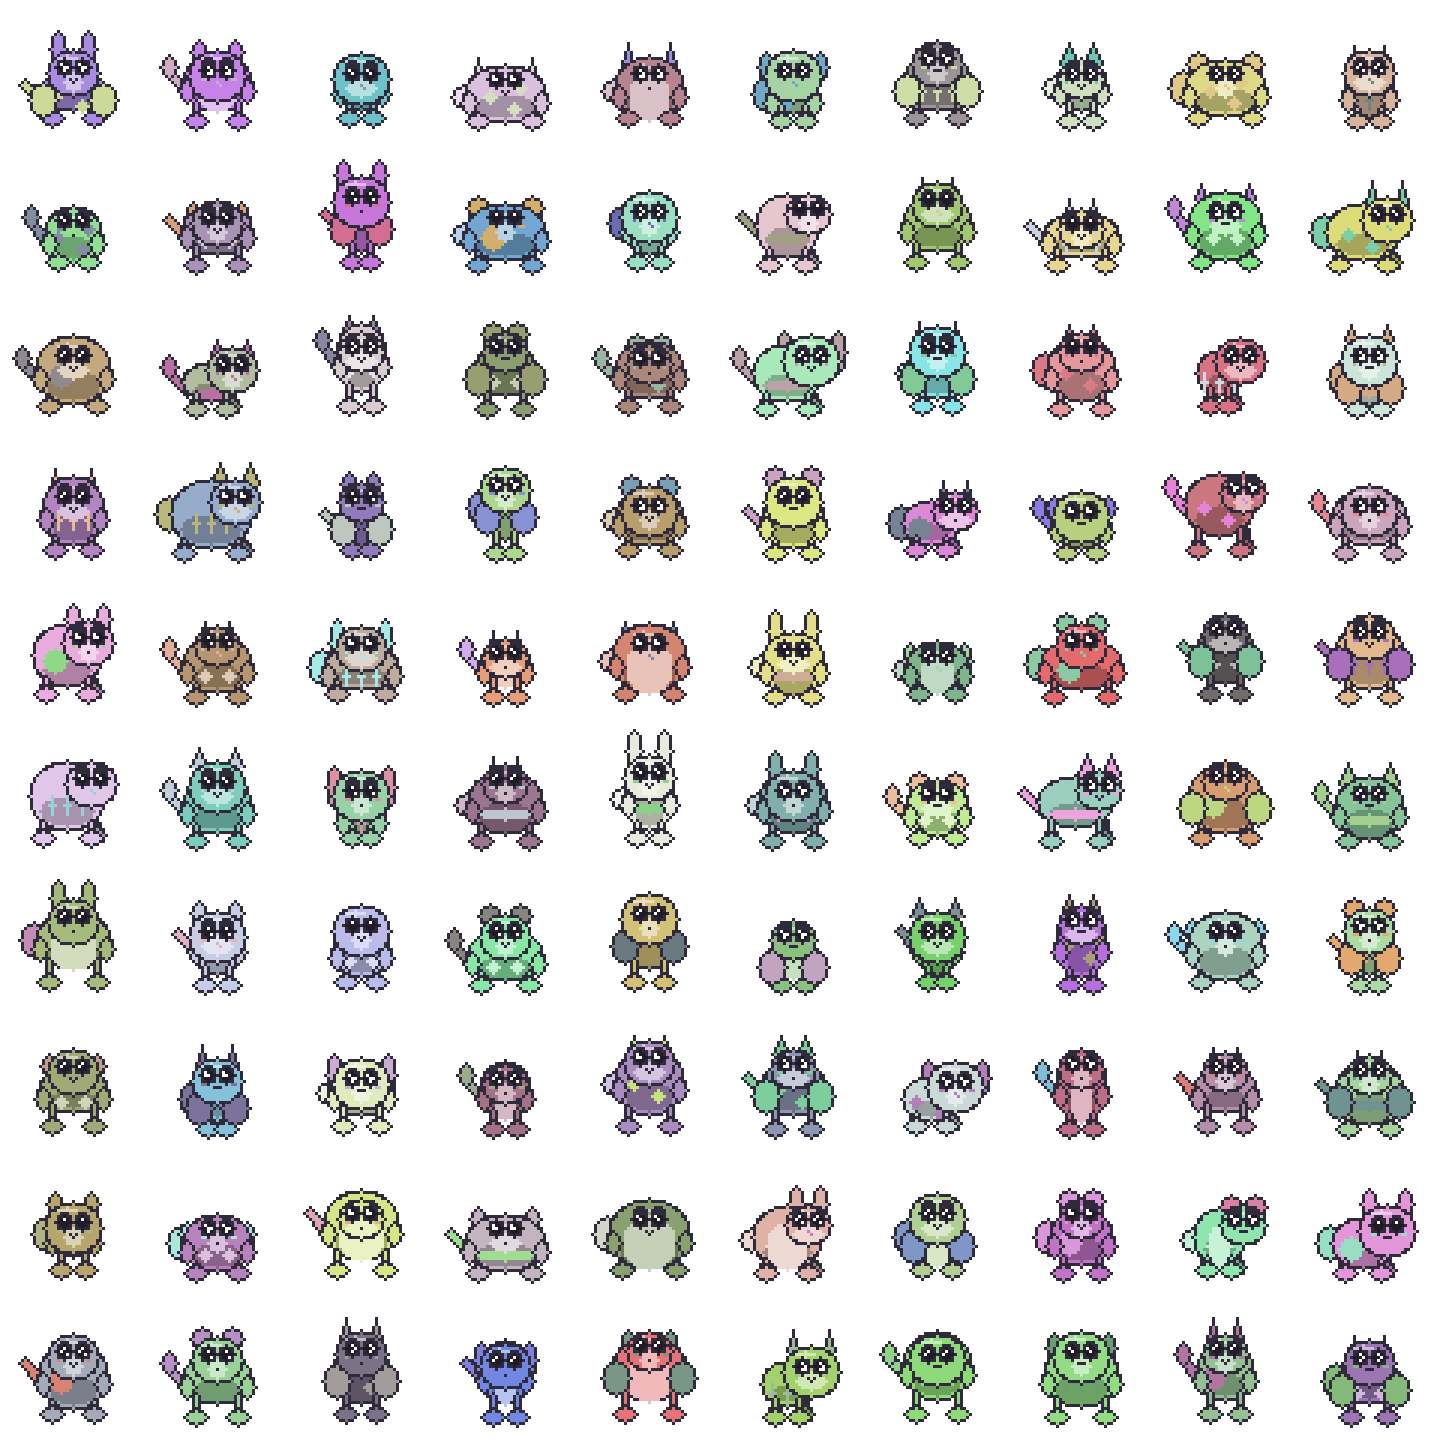
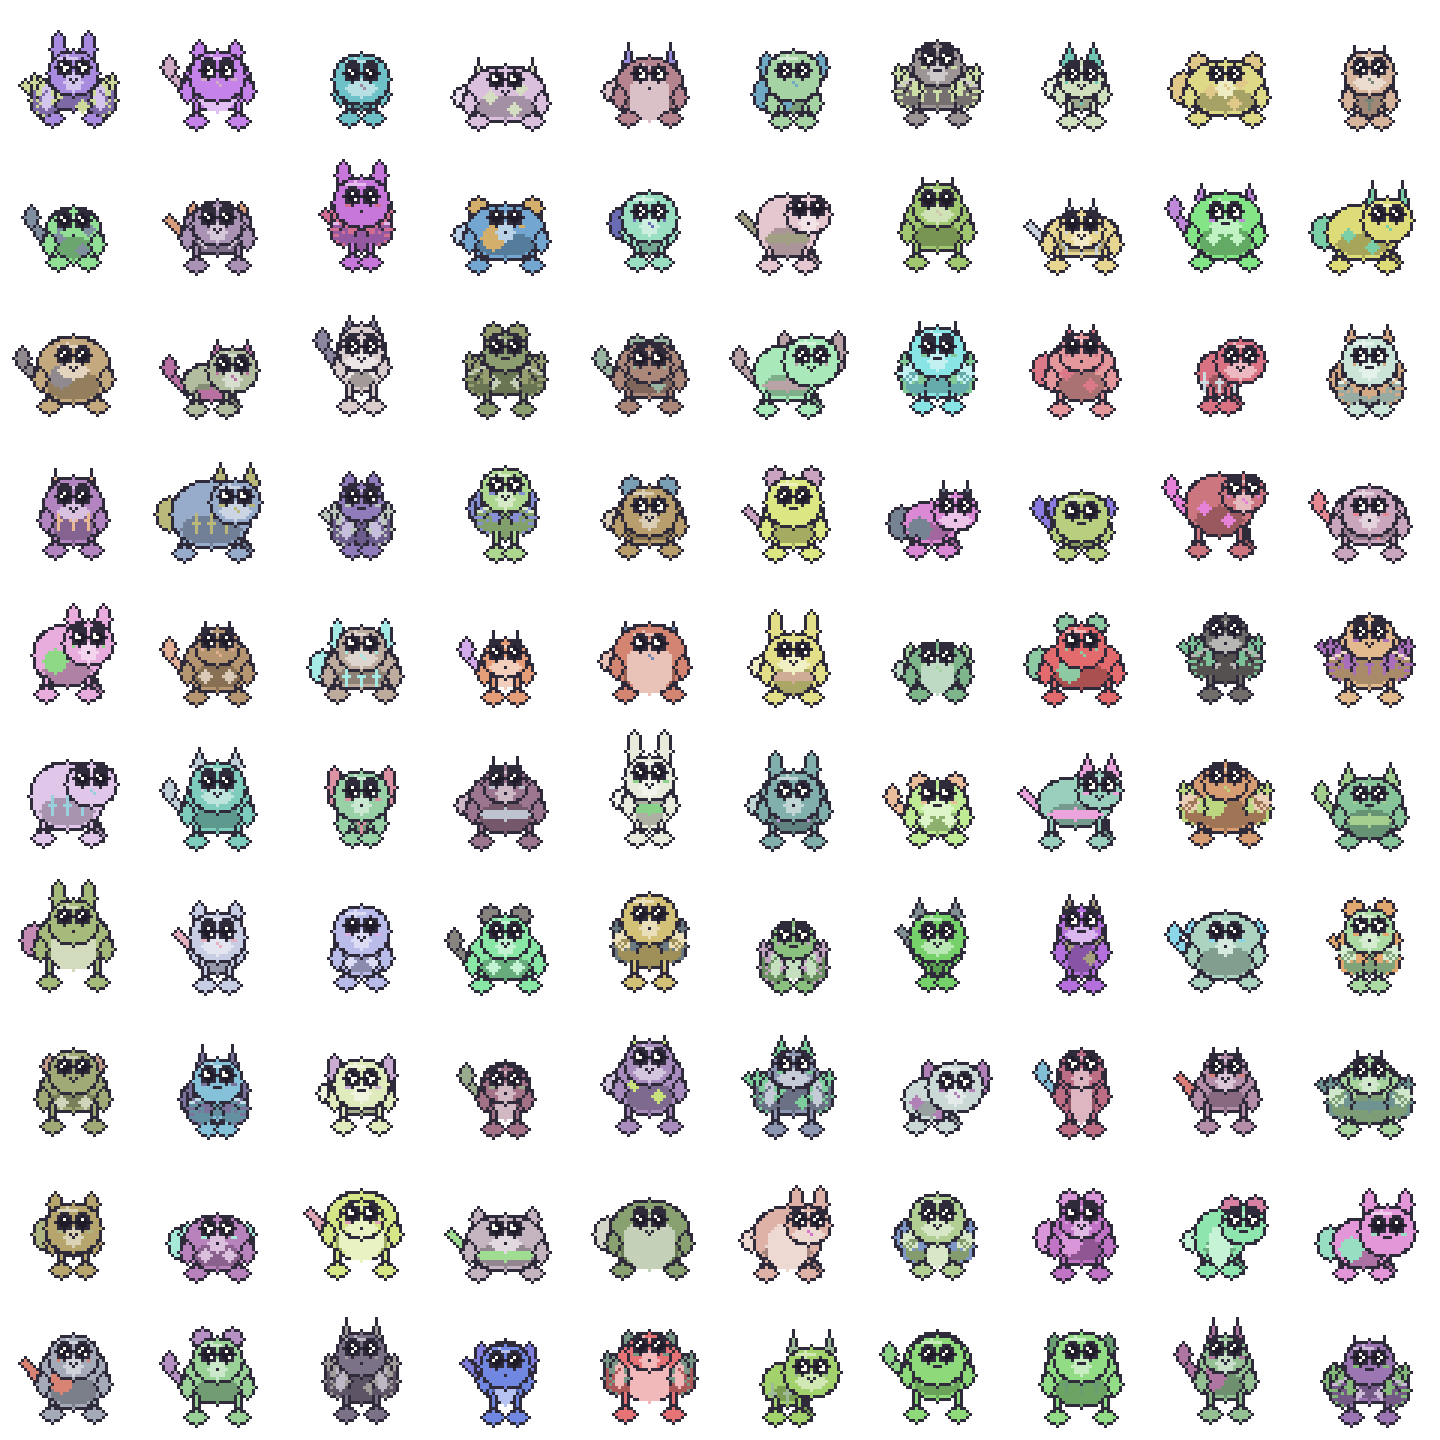
Release 0.55.6 with wings that read as wings
Winged creatures grew large accent nubs that were hard to tell from the arms
every other plan carries. Each membrane now keeps a lit leading edge and a
shaded underside, and carries a tip up and outward past the shoulder, so the
bright part sweeps the way a folded wing reads. One of three structures is
drawn over that: feathered quills sweeping to the tip, two ribs reaching a
drawn-down point, or a pale inner panel behind a darker outer rim.

Which wing a creature grows is a pure function of the accent, marking, and
tail bytes its recipe already holds, so wings vary between creatures, never
change for a given creature, and travel intact inside a version 2 seed code.
The recipe is still 16 bytes and existing creatures keep their appearance.

Every mark stays inside the membrane's own outline, leaving the silhouette,
its connection to the body, and the reserved face unchanged, and the structure
is baked into the existing body frames at atlas construction, so it costs no
quad, texture, or per-frame work.

diff --git a/crates/formiga-art/src/renderer/modular.rs b/crates/formiga-art/src/renderer/modular.rs
@@ -189,16 +189,13 @@ pub(super) fn draw(
         );
         oval(c, p, fx, floor - 1 - step.abs().min(2), 3, 2, p.coat);
         if !long {
-            let wing = d.body == BodyPlan::Winged;
-            oval(
-                c,
-                p,
-                x + side * (rx - 1),
-                y + 3 - pose.appendage_lift.clamp(-2, 3),
-                if wing { 4 } else { 2 },
-                if wing { 5 } else { 3 },
-                if wing { p.accent } else { p.coat },
-            );
+            let ax = x + side * (rx - 1);
+            let ay = y + 3 - pose.appendage_lift.clamp(-2, 3);
+            if d.body == BodyPlan::Winged {
+                draw_wing(c, p, wing_style(d), ax, ay, side);
+            } else {
+                oval(c, p, ax, ay, 2, 3, p.coat);
+            }
         }
     }
     if !blob {
@@ -223,9 +220,112 @@ pub(super) fn draw(
     PixelPoint { x: hx, y: hy }
 }
 
+/// Which wing a creature grew. Derived from bytes already in the recipe, so wings vary between
+/// creatures, stay identical every time one is drawn, and travel intact inside a shared code
+/// without spending another recipe byte.
+fn wing_style(d: CreatureDesign) -> u8 {
+    ((u16::from(d.accent[0]) + u16::from(d.marking) * 5 + u16::from(d.tail) * 3) % 3) as u8
+}
+
+/// A wing rather than a large nub. The membrane keeps its existing silhouette, so the body
+/// connection and the reserved face are untouched; the shape is carried by value instead. The
+/// underside is shaded and the leading edge lit, which sweeps the bright part up and outward the
+/// way a folded wing reads, and the style adds its own structure over that.
+fn draw_wing(c: &mut Canvas, p: Palette, style: u8, x: i32, y: i32, side: i32) {
+    oval(c, p, x, y, 4, 5, p.accent);
+    // A tip carried up past the shoulder, so a wing is never read as another arm.
+    oval(c, p, x + side, y - 4, 2, 3, p.accent);
+    oval(c, p, x + side * 3, y - 6, 1, 2, p.accent);
+    // Shade the trailing underside, nearest the body and lowest on the wing.
+    c.fill_ellipse(x - side, y + 3, 3, 2, p.shadow);
+    match style {
+        // Feathered: parallel quills sweeping out to the tip, over a lit leading edge.
+        0 => {
+            c.line(x - side * 2, y - 4, x + side * 3, y - 2, 1, p.highlight);
+            for offset in 0..3 {
+                let row = y - 2 + offset * 2;
+                c.line(x - side, row, x + side * 3, row + 1, 1, p.shadow);
+            }
+        }
+        // Membrane: two clean ribs running from the shoulder to a drawn-down tip.
+        1 => {
+            c.fill_ellipse(x + side, y - 2, 3, 3, p.highlight);
+            for dy in [0, 3] {
+                c.line(x - side * 2, y - 4, x + side * 3, y + dy, 1, p.shadow);
+            }
+            c.line(x + side * 3, y + 1, x + side * 3, y + 4, 1, p.accent);
+        }
+        // Panelled: a pale inner panel behind a darker outer rim, with a single vein.
+        _ => {
+            c.fill_ellipse(x - side, y - 1, 2, 4, p.highlight);
+            c.line(x + side * 3, y - 3, x + side * 3, y + 3, 1, p.shadow);
+            c.line(x - side, y - 3, x + side * 2, y + 1, 1, p.shadow);
+        }
+    }
+}
+
 #[cfg(test)]
 mod tests {
     use super::*;
+
+    #[test]
+    fn every_wing_style_is_reachable_deterministic_and_visibly_textured() {
+        let creature = formiga_core::World::preview_adult(
+            [55; 32],
+            time::OffsetDateTime::UNIX_EPOCH,
+            &formiga_core::DesktopSnapshot::default(),
+        );
+        let p = crate::palette_for(&creature.appearance);
+        let base = creature.appearance.design.unwrap();
+        let mut rendered = Vec::new();
+        for style in 0..3_u8 {
+            let mut d = base;
+            d.body = BodyPlan::Winged;
+            d.marking = 0;
+            d.tail = 0;
+            // Only the style-selecting byte moves, so any difference is the wing itself.
+            d.accent[0] = 150 + style;
+            assert_eq!(wing_style(d), (150 + style) % 3);
+            assert_eq!(
+                wing_style(d),
+                wing_style(d),
+                "a recipe always grows one wing"
+            );
+            let mut c = Canvas::new(FRAME_SIZE, FRAME_SIZE);
+            let pose = Pose::new(&creature.appearance, ActionKind::Idle, 0, false);
+            draw(&mut c, d, p, pose, 1.0, ActionKind::Idle, 0);
+            rendered.push(c);
+        }
+        for (index, canvas) in rendered.iter().enumerate() {
+            for other in rendered.iter().skip(index + 1) {
+                assert_ne!(
+                    canvas.pixels(),
+                    other.pixels(),
+                    "wing styles should not render alike"
+                );
+            }
+            // A wing carries structure rather than one flat block of accent.
+            let colors: std::collections::HashSet<_> = canvas
+                .pixels()
+                .iter()
+                .filter(|pixel| pixel.a > 0)
+                .map(|pixel| (pixel.r, pixel.g, pixel.b))
+                .collect();
+            assert!(colors.len() >= 4, "style {index} should be textured");
+        }
+        // Ordinary generation reaches all three.
+        let styles: std::collections::HashSet<_> = (0..512_u64)
+            .map(|index| {
+                formiga_core::CreatureDesign::generated(
+                    formiga_core::SeedStream::new([13; 32]).bytes("wing-reach", index),
+                    0,
+                    None,
+                )
+            })
+            .map(wing_style)
+            .collect();
+        assert_eq!(styles.len(), 3);
+    }
 
     #[test]
     fn all_part_combinations_keep_connected_bodies_and_a_reserved_face_at_extreme_sizes() {

diff --git a/README.md b/README.md
@@ -1,4 +1,4 @@
-# Formiga · v0.55.5
+# Formiga · v0.55.6
 
 <p align="center"><img src="packaging/shared/Formiga.png" width="128" alt="Formiga mascot app icon"></p>
 
@@ -20,7 +20,7 @@ your computer. No terminal or development tools are required.
 - **Windows 10/11** — download the `.msi` and run it. It adds normal Desktop and Start-menu
   shortcuts.
 
-Downloads are named after their release, for example `Formiga-0.55.5-macOS-universal.dmg`. Each one
+Downloads are named after their release, for example `Formiga-0.55.6-macOS-universal.dmg`. Each one
 ships with a matching `.sha256` file, so keep the original filename if you want to verify it.
 
 These builds are not code-signed yet, so the first launch needs one extra step: on macOS,
@@ -31,6 +31,14 @@ Settings open automatically the first time you launch. After that, the menu-bar 
 Show/Hide, Pause, Gather Creatures, Check for Updates, Settings, and Quit.
 
 ![Procedural demonstration of generation, dragging, habitat zones, occlusion, and colony growth](docs/assets/formiga-demo.gif)
+
+## New in 0.55.6
+
+Winged creatures grow real wings instead of large accent nubs. Every wing has a lit leading edge, a
+shaded underside, and a tip carried up past the shoulder, and each creature grows one of three
+structures over that: feathered quills, ribs reaching a drawn-down tip, or a pale panel behind a
+darker rim. Which one a creature has comes from its own recipe, so it never changes and travels
+with a shared seed code.
 
 ## New in 0.55.5
 

diff --git a/docs/GENERATION.md b/docs/GENERATION.md
@@ -1,4 +1,4 @@
-# Modular creature generation · v0.55.5
+# Modular creature generation · v0.55.6
 
 The design goal is a cute reinterpretation, never image tracing. A photo, illustration, logo,
 or unusual reference should resolve to a readable pixel companion with a connected rounded body,
@@ -17,6 +17,13 @@ The blob plan is a single soft mass: it draws no separate head, carries the face
 keeps a rounder minimum footprint, and stands on stubby feet. It occupies index 4 so recipes and
 version 2 codes written before it decode exactly as they did. A code carrying a blob needs v0.55.5
 or newer to import.
+
+The winged plan draws a membrane with a lit leading edge, a shaded underside, and a tip carried past
+the shoulder, plus one of three structures: feathered quills, ribs to a drawn-down tip, or a pale
+panel behind a darker rim. The structure is a pure function of accent, marking, and tail bytes the
+recipe already holds, so wings vary between creatures, never change for a given creature, and travel
+inside a version 2 code without another byte. Every mark stays inside the membrane's own outline, so
+the silhouette, its connection to the body, and the reserved face are unchanged.
 
 Random creatures use a named stream separate from legacy appearance/personality generation.
 Minis inherit the parent's body plan and accent color, usually retain its ear style, and receive

diff --git a/docs/PERFORMANCE.md b/docs/PERFORMANCE.md
@@ -124,10 +124,12 @@ Only the winning seed, 16-byte design recipe, and preview survive the matching c
 accepting the preview drops its one small settings texture. Colony role checks and mini balancing
 operate across the existing four-creature bound and introduce no new simulation loop or draw call.
 
-The v0.55.5 generator adds no dependency, model weights, external service, source-image texture,
+The v0.55.6 generator adds no dependency, model weights, external service, source-image texture,
 or idle worker. Each optional recipe is 16 bytes plus its option discriminant, stored in appearance
 and immutable origin. Existing body/face frame dimensions, animation counts, and GPU atlas budgets
-are unchanged. The village still uses at most eight object quads against the existing 128×16 object
+are unchanged. Wing structure is a handful of extra lines inside the existing appendage, baked into
+the same body frames at atlas construction, so it costs no quad, texture, or per-frame work. The
+village still uses at most eight object quads against the existing 128×16 object
 atlas, plus at most four dwelling quads against one 128×128 shelter atlas that replaces the previous
 64×64 one; none of it is rendered while the house is inactive. Belonging colors are derived once per
 atlas build, adding no per-frame work. Runtime CPU/GPU measurements on native

diff --git a/docs/TEST_MATRIX.md b/docs/TEST_MATRIX.md
@@ -45,6 +45,7 @@ Automated checks are the baseline, not a substitute for native desktop testing.
 | PNG/JPEG local decode limits, fixed 512-candidate matching, determinism, and full-size preview output | CI | CI |
 | Modular recipes: bounded parts, 16-byte layout, all body/ear combinations, related minis | CI | CI |
 | Connected modular silhouettes and reserved faces at minimum/maximum proportions | CI | CI |
+| Wing styles: all three reachable, stable per recipe, and visibly textured | CI | CI |
 | Image aspect/alpha handling, dominant/accent colors, blank and extreme references | CI | CI |
 | v11 save preservation, v1/v2 code validation, exact design add/replace/save/share | CI | CI |
 | Mirrored village layout: separated lots, shared ground line, scale changes, missing/narrow displays and lot cap | CI | CI |

diff --git a/CHANGELOG.md b/CHANGELOG.md
@@ -2,6 +2,18 @@
 
 All notable changes are documented here.
 
+## [0.55.6] - 2026-09-12
+
+### Changed
+
+- Winged creatures grow actual wings rather than large accent nubs. Each membrane keeps a lit
+  leading edge and a shaded underside, and carries a tip up and out past the shoulder so a wing
+  is never read as another arm. One of three structures is drawn over that: feathered quills,
+  ribs reaching a drawn-down tip, or a pale panel behind a darker outer rim.
+- The wing a creature grows comes from bytes already in its recipe, so wings vary between
+  creatures, stay the same every time one is drawn, and travel intact inside a shared code. The
+  recipe is still 16 bytes and existing creatures keep their exact appearance.
+
 ## [0.55.5] - 2026-09-12
 
 ### Added
